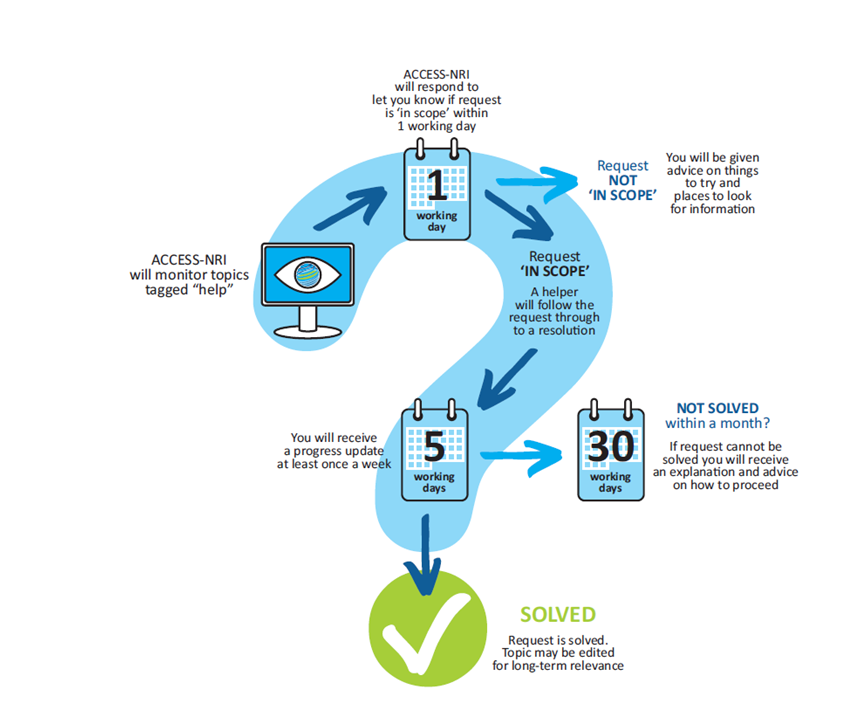
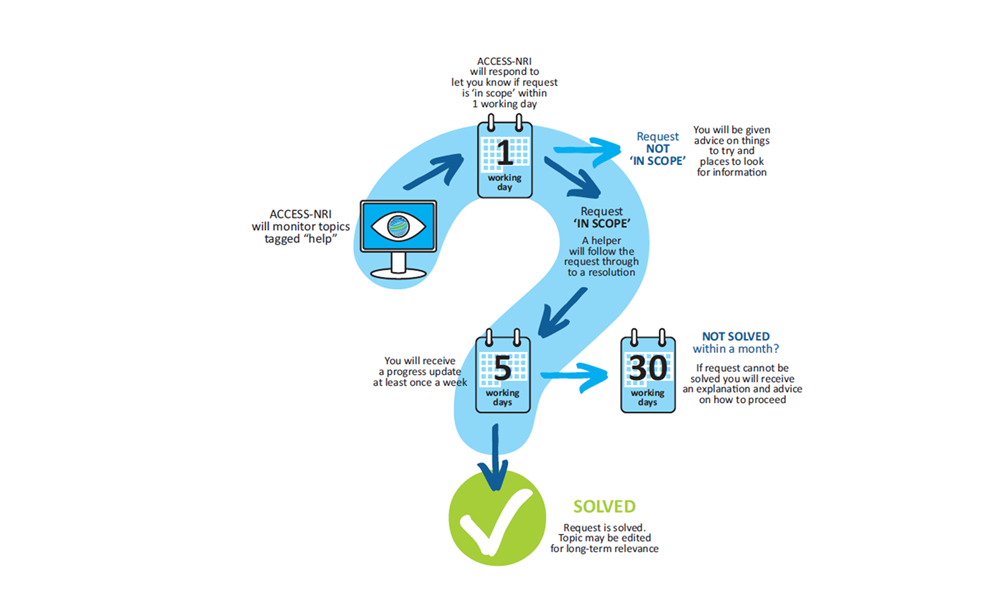
:lipstick: (#462): Added the second image

Changed region(s): [[0.151, 0.09, 0.9361, 0.96]]

diff --git a/docs/css/access-nri.css b/docs/css/access-nri.css
@@ -943,6 +943,6 @@ pre:has(code):hover > button {
   color: var(--nri-orange);
 }
 
-.nri-unselected-tab-color {
-  color: var(--tab-text-light);
+.small-txt {
+  font-size: 0.92em;
 }

diff --git a/docs/about/contribute/ask_on_forum.md b/docs/about/contribute/ask_on_forum.md
@@ -1,22 +1,32 @@
 # Using the Hive Forum
 
-The <a href="https://forum.access-hive.org.au" target="_blank">Hive forum</a> is a place for the **ACCESS Community** to come together, share ideas, organise and plan shared activities.
+The <a href="https://forum.access-hive.org.au" target="_blank">Hive forum</a> is a place for the ACCESS Community to come together, share ideas, organise and plan shared activities.
 
 ## Getting ready
 
 You can start a new discussion topic on the <a href="https://forum.access-hive.org.au" target="_blank">Hive Forum</a> in just 3 simple steps: 
 
-<i class="fa-regular fa-square-check nri-light-blue-color with-padding"></i> <a href="https://forum.access-hive.org.au/docs?topic=884" class="checklist-item bold"> 1. Register to the ACCESS-Hive Forum </a>
+<i class="fa-regular fa-square-check nri-light-blue-color with-padding"></i> <a href="https://forum.access-hive.org.au/docs?topic=884" class="checklist-item bold"> Register to the ACCESS-Hive Forum </a>
 
-<i class="fa-regular fa-square-plus nri-light-blue-color with-padding"></i> <a href="https://forum.access-hive.org.au/docs?topic=790" class="checklist-item bold"> 2. Create a new topic for your request </a>
+<i class="fa-regular fa-square-plus nri-light-blue-color with-padding"></i> <a href="https://forum.access-hive.org.au/docs?topic=790" class="checklist-item bold"> Create a new topic for your request </a>
 
-&emsp; <i class="fa-regular fa-lightbulb nri-orange-color with-padding"></i> <a href="https://forum.access-hive.org.au/docs?topic=790" class="checklist-item nri-unselected-tab-color"> How to write a good help request? </a>
+&emsp; <i class="fa-regular fa-lightbulb nri-orange-color with-padding"></i> <a href="https://forum.access-hive.org.au/docs?topic=790" class="checklist-item small-txt"> How to write a good help request? </a>
 
-<i class="fa-solid fa-tag nri-light-blue-color with-padding"></i> <a href="https://forum.access-hive.org.au/docs?topic=846" class="checklist-item bold"> 3. Tag the request with the label `help` </a>
+<i class="fa-solid fa-tag nri-light-blue-color with-padding fa-sm"></i> <a href="https://forum.access-hive.org.au/docs?topic=846" class="checklist-item bold"> Tag the request with the label `help` </a>
 
 <img class="white-background with-padding with-border" src="/assets/ask-on-forum-diagram.png">
 
-After a discussion topic is posted on the forum, the ACCESS-NRI and community experts will respond with advice and relevant information.
+After a discussion topic is posted on the forum, the ACCESS-NRI and community experts will respond with the relevant information by following a 5-step process, as below: 
+
+<i class="fa-solid fa-star nri-light-blue-color with-padding fa-sm"></i> ACCESS-NRI monitors the topics tagged with `help` keyword on a regular basis.
+- After a request is received, we will let you know within 1 working day if the request is `in scope`. 
+- A helper will then follow the `in scope`, `help` request through to a resolution. 
+- You will receive a progress update at least once a week. 
+
+<i class="fa-regular fa-circle-check"></i> Request is solved. 
+
+<img class="white-background with-border" src="/assets/access-nri-support.png">
+
 
 ### [Draft Notes]
 

diff --git a/docs/about/contribute/index.md b/docs/about/contribute/index.md
@@ -8,11 +8,7 @@ Contributions are encouraged from any member of the community regarding any aspe
 
 ## How can I contribute?
 
-Anyone is welcome to contribute towards improving the **ACCESS-Hive** user portal. 
-
-<!-- There are two ways to contribute to this **ACCESS-Hive** portal.  -->
-
-The following section lists the contribution tasks that we are most interested in receiving community help with. Please consider helping with one or more tasks below, and we are looking towards receiving your very first contribution for the **ACCESS-Hive**!
+Anyone is welcome to contribute towards improving the **ACCESS-Hive** user portal. The following section lists the contribution tasks that we are most interested in receiving community help with. Please consider helping with one or more tasks below, and we are looking towards receiving your very first contribution for the **ACCESS-Hive**!
 
 <div class="card-container">
     <a href="/about/contribute/ask_on_forum" class="vertical-card-half-width aspect-ratio2to1">
